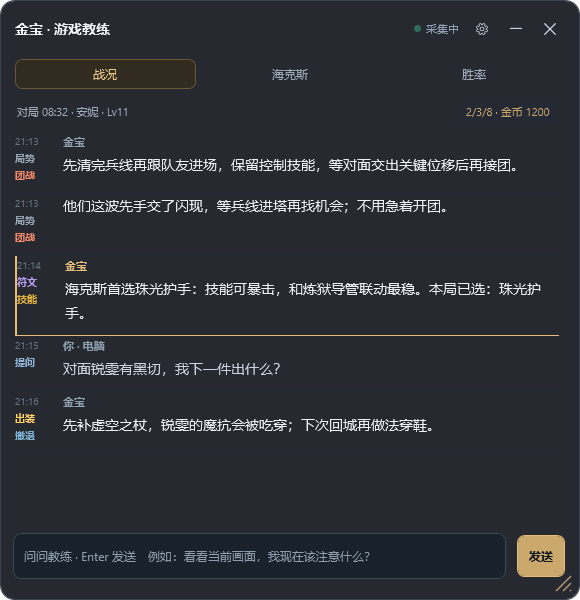
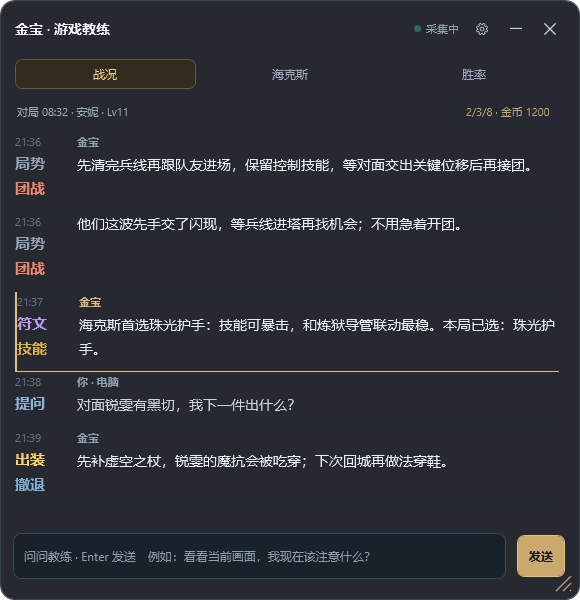
战况页与提示词五项调整
- 类别标签放大到比正文更大（正文+1px，最小 13），左侧列加宽到 62px；时间用正文-3px
- 英雄只显示名字、不带称号：数据里是"祖安狂人 蒙多医生"，界面显示"蒙多医生"；
  只影响显示，检索与日志仍用全名
- 收起/展开后强制重排 + 重绘（MainBorder、内容、窗口各刷一次），消除透明窗口改尺寸
  后残留上一帧的残影和卡顿
- 提示词加两条风格约束：最多两句、60 字以内；不用"禁止/不要/别让/千万别"这类否定命令式，
  改成正向可执行动作（"先退到塔后"而不是"别追"）。端游 persona、云端 preset、本地 BYOK 三处同步

diff --git a/tools/dsh-coach-server/lib/adapters/lol.js b/tools/dsh-coach-server/lib/adapters/lol.js
@@ -22,7 +22,8 @@ import { buildLolCoachingPlan, stateCoachingTrigger } from '../lol-coaching-plan
 const PERSONA_SYSTEM_PROMPT =
   '你是英雄联盟端游助手金宝。依据每轮确认的游戏模式、英雄、装备与阵容给出简洁可执行的建议。' +
   '角色定位与本地战术评分只是辅助判断，不是已经确认的走位或技能状态；未识别或低置信度信息明确说明。' +
-  '强化、装备与当前版本机制以真实日志和匹配模式的检索证据为准，不按经典模式的默认套路补全未知事实。';
+  '强化、装备与当前版本机制以真实日志和匹配模式的检索证据为准，不按经典模式的默认套路补全未知事实。'+
+  '输出要短：最多两句、60 字以内，先说做什么、再说一句为什么；悬浮窗一屏很小，不要铺陈背景。不要用"禁止、不要、别让、千万别"这类否定命令式，改成正向可执行的动作（例如"先退到塔后"而不是"别追"）。';
 
 /** 高信号:出现这些说明是真实战局转折,不受低信号限流约束,立即触发。 */
 const HIGH_SIGNAL_RE = /大龙|男爵|远古巨龙|巨龙|小龙|先锋|峡谷先锋|防御塔|水晶|基地|团灭|一血|五杀|四杀|三杀|双杀|被击杀|击杀|抢龙|反打|ace/i;
